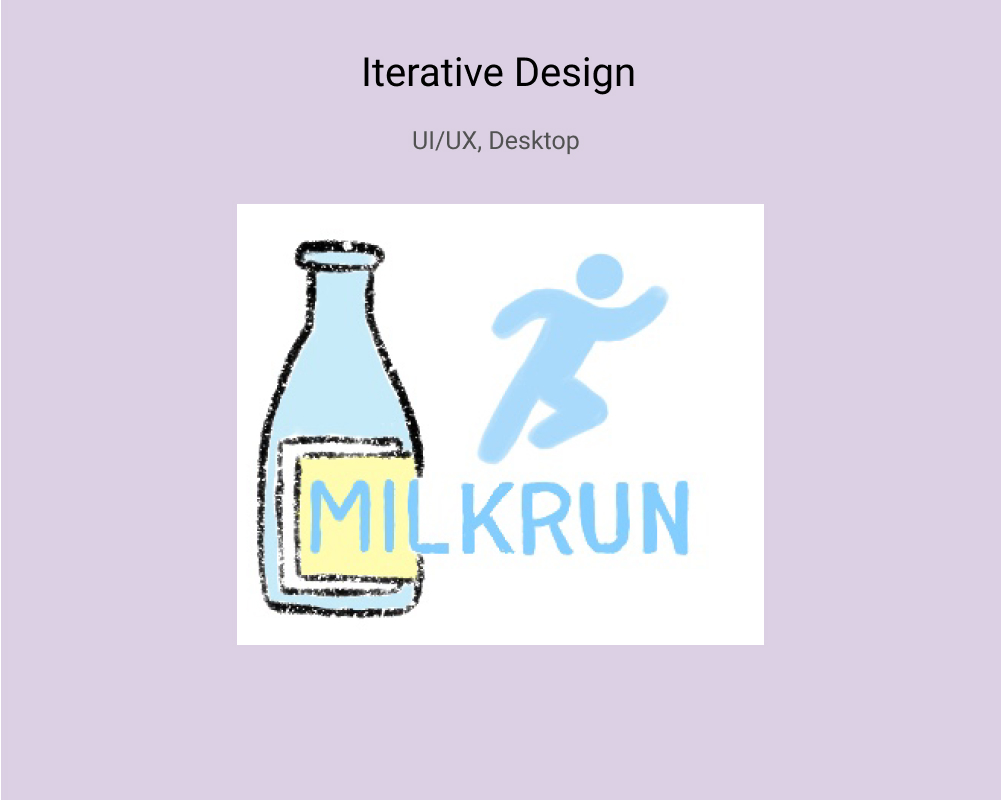
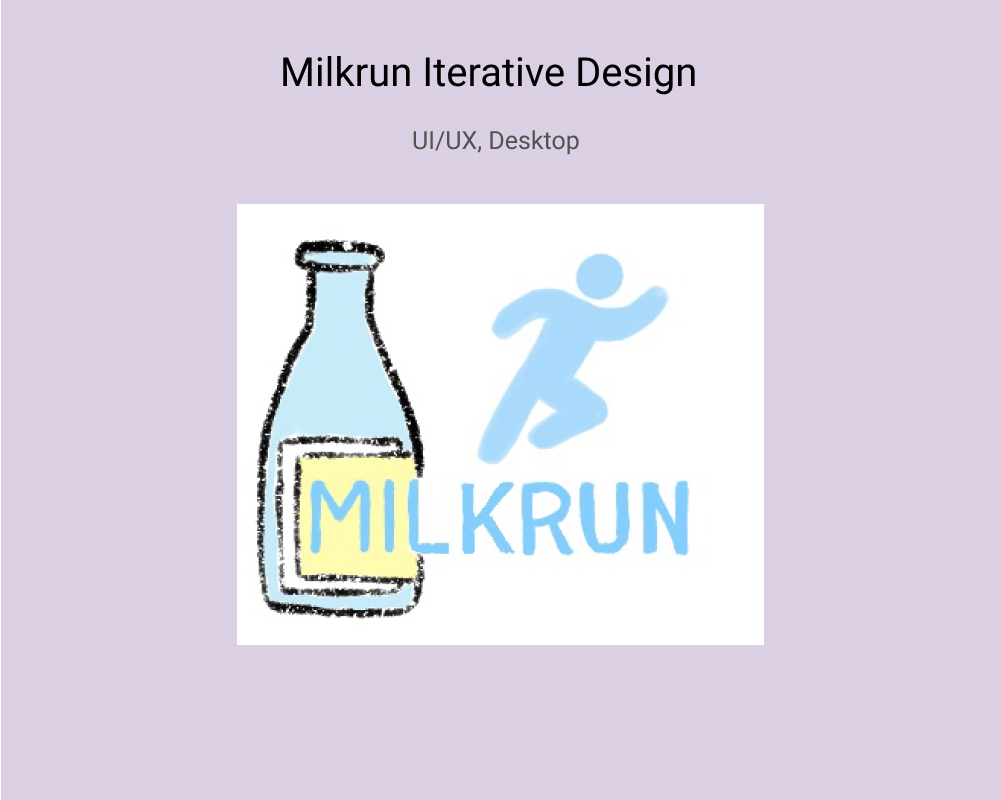
added

Changed region(s): [[0.2787, 0.0625, 0.6813, 0.125]]

diff --git a/about.html b/about.html
@@ -24,8 +24,8 @@
                                 I'm currently a junior at Brown University, studying computer science. Coming to Brown, I thought I was going to concentrate
                                 in cognitive neuroscience. During my first year, I took classes from multiple departments, including sociology, education, economics, and clps. To be honest, I felt a little lost. 
                                 It wasn't until I tried my first cs class during the fall of my sophomore year that I finally felt like I knew what I wanted to pursue and learn. 
-                                My academic interests lie in artificial intelligence and UI/UX design, and in particular, I am fascinated by how we can use artificial intelligence to create designs that promote inclusion
-                                and allow users to make their voices heard.</p>
+                                My academic interest lies in UI/UX design, and in particular, I am fascinated by how we can use UI/UX design to create a space that promotes inclusion and 
+                                allows users to have their voices heard.</p>
                             <p>In my free time, you can find me obsessing over all things comedy. I enjoy watching Fleabag, scrolling through Twitter, and writing sketches.</p>
                             <p>Feel free to connect with me on <a target="_blank" href= "https://www.linkedin.com/in/nicole-kim-9baab716b/">LinkedIn</a>!</p>
                         </div>

diff --git a/responsive.html b/responsive.html
@@ -2,7 +2,7 @@
 
 <html>
     <head>
-        <title>Responsive Redesign Project</title>
+        <title>Mostra Coffee Redesign</title>
         <link rel="stylesheet" href="responsive.css">
         <meta content="width=device-width, initial-scale=1" name="viewport" />
         <meta charset="UTF-8">
@@ -22,7 +22,7 @@
         <div class="title">
             <div class="column1">
                     <div id="name">
-                        Responsive Redesign
+                        Mostra Coffee Redesign
                     </div>
                     <img id="responsive-img" src="mostra-main.jpeg">
                 <div id="descriptions">

diff --git a/iterative.html b/iterative.html
@@ -2,7 +2,7 @@
 
 <html>
     <head>
-        <title>Iterative Design Project</title>
+        <title>Milkrun Iterative Design</title>
         <link rel="stylesheet" href="iterative.css">
         <meta content="width=device-width, initial-scale=1" name="viewport" />
         <meta charset="UTF-8">
@@ -20,7 +20,7 @@
         <div class="title">
             <div class="column1">
                     <div id="name">
-                        Iterative Design
+                        Milkrun Iterative Design
                     </div>
                     <img id="iterative-img" src="milkrun.jpeg">
                 <div id="descriptions">

diff --git a/abtesting.html b/abtesting.html
@@ -21,7 +21,7 @@
         <div class="title">
             <div class="column1">
                     <div id="name">
-                        A/B Testing 
+                        Let's Buy Cacti: A/B Testing 
                     </div>
                     <img id="abtesting-img" src="abtesting-logo.jpeg">
                 <div id="descriptions">

diff --git a/consumer.html b/consumer.html
@@ -2,7 +2,7 @@
 
 <html>
     <head>
-        <title>Canvas Redesign</title>
+        <title>Consumer Psychology Research</title>
         <link rel="stylesheet" href="consumer.css">
         <meta content="width=device-width, initial-scale=1" name="viewport" />
         <meta charset="UTF-8">
